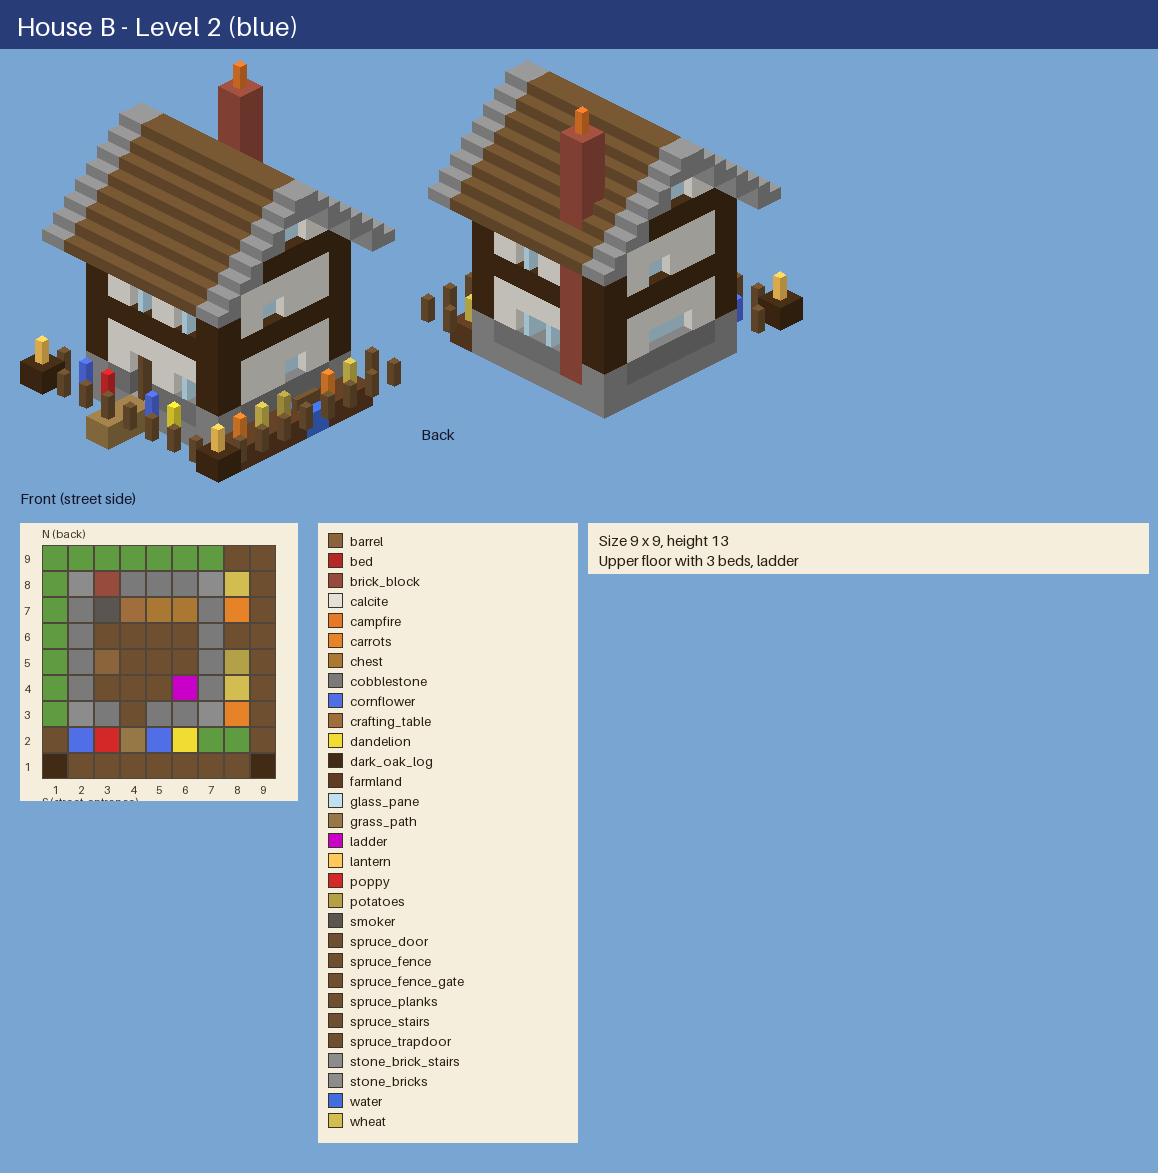
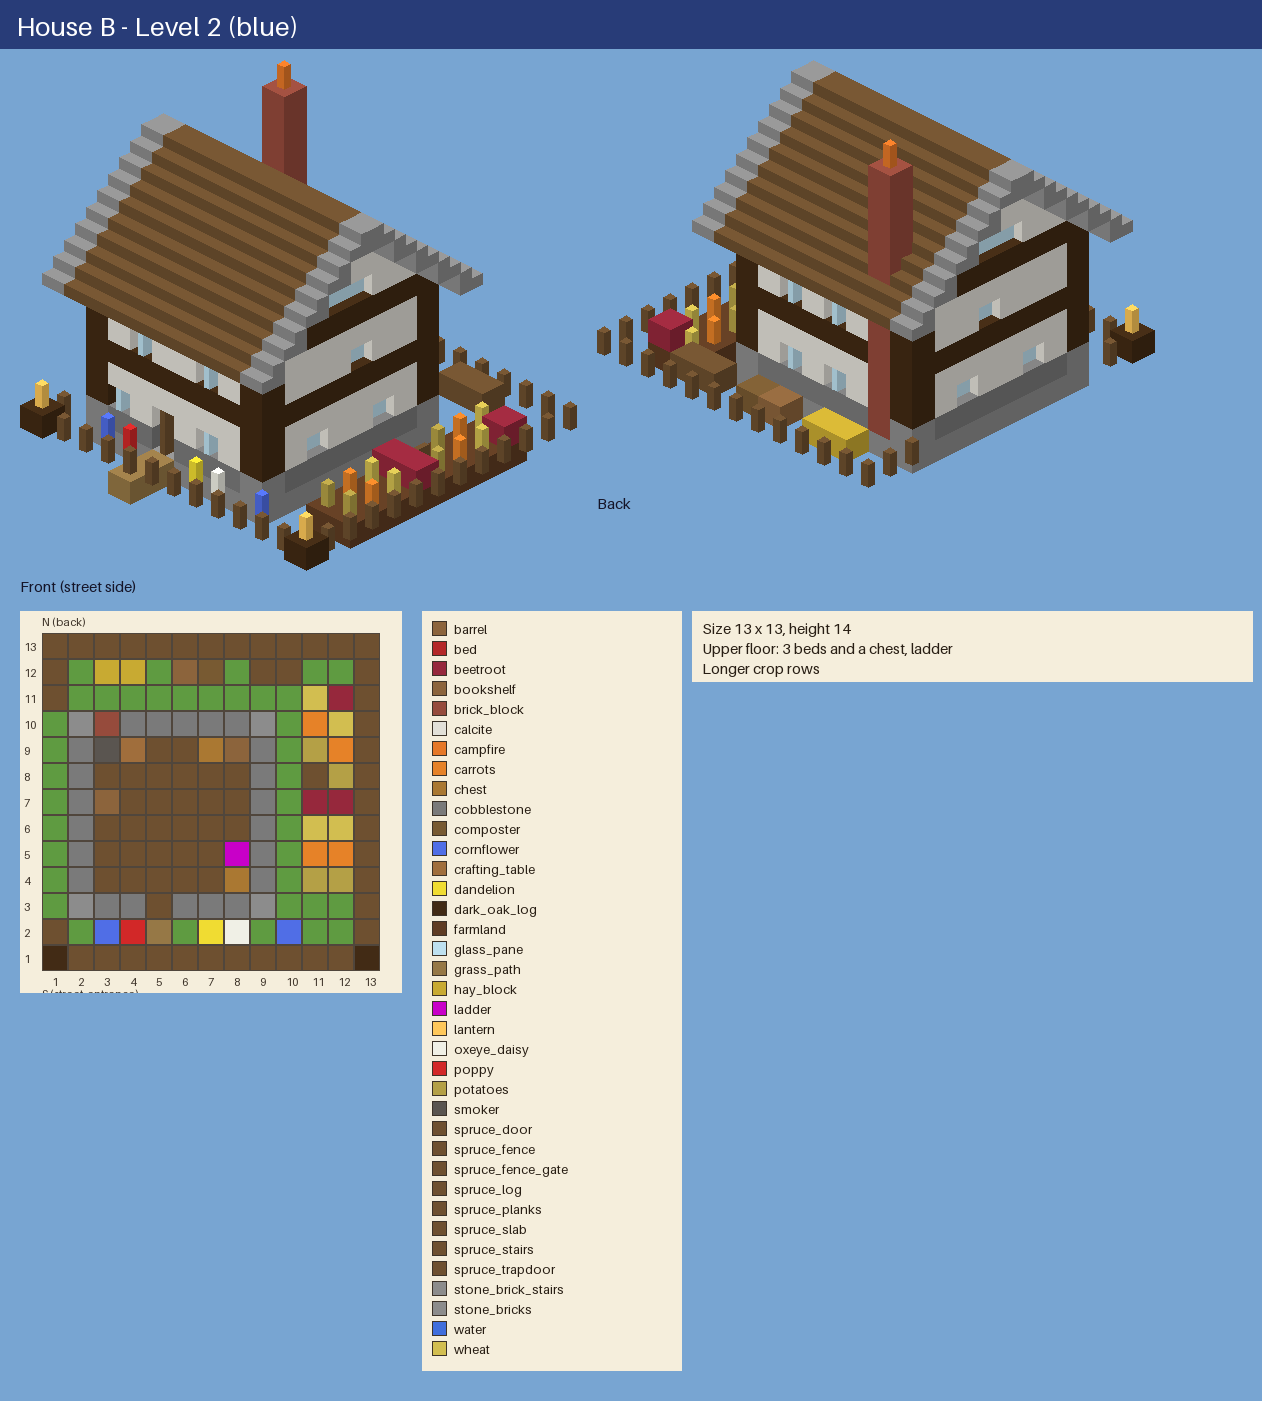
Kingscross houses v2 on M 13x13 plots; plot size read from the catalogue (QA fails on mismatch); runtime warning on mismatch
Claude-Session: https://claude.ai/code/session_01RzQ4R3gbnumKF4eqiBRizH

diff --git a/src/scripts/settlements/blueprint.ts b/src/scripts/settlements/blueprint.ts
@@ -96,6 +96,7 @@ function dataBlueprint(data: BlueprintData, rot: Rot): Blueprint {
 export function blueprintFor(def: BuildingDef, faction: string, variant: string | undefined, level: 1 | 2 | 3, w: number, rot: Rot): Blueprint {
   const data = variant ? BLUEPRINTS[key(faction, def.id, variant, level)] : undefined;
   if (data && data.size[0] === w && data.size[2] === w) return dataBlueprint(data, rot);
+  if (data) console.warn(`[BannerForge] design ${key(faction, def.id, variant!, level)} is ${data.size[0]}x${data.size[2]}, plot is ${w}x${w}: placeholder used`);
   return placeholderBlueprint(def, level, w, rot);
 }
 

diff --git a/assets-src/structures/kingscross/house.py b/assets-src/structures/kingscross/house.py
@@ -1,16 +1,18 @@
 """Kingscross Guild houses (brief: docs/structures/kingscross/house.md, style: docs/styles/kingscross.md v1).
 
+Lot: medium plot 13 x 13 (docs/BUILDINGS.md; owner confirmed 2026-11-15).
 Two designs (owner, 2026-11-15: 2 to start, house position differs, crops are real):
   A  house at the back of the lot, gable to the street, crop and flower garden in front
-  B  house in the front-left corner, roof ridge side to side, crop strip down the right side
-Levels: 1 cottage (2 beds) · 2 upper floor (3 beds) · 3 prestige details (4 beds): striped guild awning,
-flag, hedges, lanterns, yard clutter.
+  B  house in the front-left corner, roof ridge side to side, crop garden down the right side, back yard
+Levels: 1 cottage (2 beds) · 2 upper floor (3 beds) · 3 prestige details (4 beds): striped guild awning or
+porch, guild flag, hedges, lanterns, yard clutter.
 """
 from bfstruct import B, Blueprint, bed_pair, facing, lantern
 from kingscross import kit
 from kingscross.palette import ROLES
 
-W = 9
+W = 13
+H = 16
 
 
 def beds(bp, xs, y, head_z, foot_z):
@@ -27,69 +29,99 @@ def ladder(bp, x, z, y_top, toward):
         bp.set(x, y, z, B("ladder", facing_direction=f))
 
 
+def barrel(bp, x, y, z):
+    bp.set(x, y, z, B("barrel", facing_direction=1, open_bit=False))
+
+
+def hedge(bp, x, z):
+    bp.set(x, 1, z, B("oak_leaves", persistent_bit=True, update_bit=False))
+
+
+def flowers(bp, spots):
+    for (x, z, f) in spots:
+        bp.set(x, 1, z, B(f))
+
+
+def table(bp, x, z):
+    bp.set(x, 1, z, B("spruce_fence"))
+    bp.set(x, 2, z, B("spruce_slab", **{"minecraft:vertical_half": "bottom"}))
+
+
 # ------------------------------------------------------------------ design A
 
 
 def house_a(level: int) -> Blueprint:
-    bp = Blueprint(W, 14, W, name="kingscross/house/a", level=level)
-    x0, z0, x1, z1 = 1, 1, 7, 5
-    posts = set()  # corners only: the front shows plaster between the windows and the door
+    bp = Blueprint(W, H, W, name="kingscross/house/a", level=level)
+    x0, z0, x1, z1 = 2, 1, 10, 7  # 9 x 7 house at the back
+    posts = {(5, 7), (7, 7)}      # door frame; plaster stays visible at x 4 and 8
+    win1 = {(3, 7), (9, 7), (2, 3), (2, 5), (10, 3), (10, 5), (4, 1), (8, 1)}
     kit.base(bp, x0, z0, x1, z1)
     kit.lower_wall(bp, x0, z0, x1, z1, 1, posts)
-    kit.timber_walls(bp, x0, z0, x1, z1, 2, 3, posts, {(2, 5), (6, 5), (1, 3), (7, 3), (4, 1)})
-    kit.door(bp, 4, 1, 5)
+    kit.timber_walls(bp, x0, z0, x1, z1, 2, 3, posts, win1)
+    kit.door(bp, 6, 1, 7)
     kit.beam_ring(bp, x0, z0, x1, z1, 4)
+
+    # Ground floor: kitchen corner by the chimney, storage, a table.
+    bp.set(9, 1, 2, facing("smoker", "south"))
+    bp.set(8, 1, 2, B("crafting_table"))
+    bp.set(8, 2, 2, lantern())
+    bp.set(7, 1, 2, facing("chest", "south"))
+    barrel(bp, 9, 1, 3)
+    bp.set(9, 2, 3, lantern())
+    table(bp, 5, 4)
 
     if level == 1:
         kit.gable_roof(bp, x0, z0, x1, z1, 4, ridge="z")
-        kit.chimney(bp, 6, 1, 8)
-        beds(bp, (2, 3), 1, head_z=2, foot_z=3)
-        bp.set(4, 1, 2, facing("chest", "south"))
-        bp.set(5, 1, 2, B("crafting_table"))
-        bp.set(5, 2, 2, lantern())
-        bp.set(6, 1, 2, facing("smoker", "south"))
-        bp.set(6, 1, 3, B("barrel", facing_direction=1, open_bit=False))
-        bp.set(6, 2, 3, lantern())
+        kit.chimney(bp, 9, 1, 10)
+        beds(bp, (3, 4), 1, head_z=2, foot_z=3)
+        bp.set(3, 1, 5, B("bookshelf"))
+        bp.set(3, 2, 5, lantern())
     else:
-        bp.fill(2, 4, 2, 6, 4, 4, ROLES["floor"])
-        bp.set(6, 4, 4, None)  # ladder hole
-        kit.timber_walls(bp, x0, z0, x1, z1, 5, 6, {(4, 5), (4, 1)}, {(2, 5), (6, 5), (1, 3), (7, 3), (3, 1), (5, 1)})
+        bp.fill(3, 4, 2, 9, 4, 6, ROLES["floor"])
+        bp.set(9, 4, 6, None)  # ladder hole
+        kit.timber_walls(bp, x0, z0, x1, z1, 5, 6, {(6, 7), (6, 1)}, {(3, 7), (4, 7), (8, 7), (9, 7), (2, 4), (10, 4), (4, 1), (8, 1)})
         kit.beam_ring(bp, x0, z0, x1, z1, 7)
         kit.gable_roof(bp, x0, z0, x1, z1, 7, ridge="z")
-        kit.chimney(bp, 6, 1, 11)
-        ladder(bp, 6, 4, 4, "west")
-        beds(bp, (2, 3, 5) if level == 2 else (2, 3, 4, 5), 5, head_z=2, foot_z=3)
-        bp.set(6, 5, 2, lantern())
-        bp.set(2, 1, 2, B("barrel", facing_direction=1, open_bit=False))
+        kit.chimney(bp, 9, 1, 13)
+        ladder(bp, 9, 6, 4, "west")
+        beds(bp, (3, 4, 6) if level == 2 else (3, 4, 6, 7), 5, head_z=2, foot_z=3)
+        bp.set(8, 5, 2, facing("chest", "south"))
+        bp.set(3, 5, 6, lantern())
+        bp.set(7, 5, 6, lantern())
         bp.set(3, 1, 2, facing("chest", "south"))
-        bp.set(4, 1, 2, facing("chest", "south"))
-        bp.set(5, 1, 2, B("crafting_table"))
-        bp.set(5, 2, 2, lantern())
-        bp.set(6, 1, 2, facing("smoker", "south"))
-        bp.set(3, 3, 3, lantern(hanging=True))
+        barrel(bp, 4, 1, 2)
+        bp.set(3, 1, 6, B("bookshelf"))
+        bp.set(3, 2, 6, lantern())
+        bp.set(6, 3, 4, lantern(hanging=True))
 
-    # Yard: path, fence with gate, lantern posts, real crops, flowers.
-    for z in (6, 7, 8):
-        bp.set(4, 0, z, ROLES["path"])
-    kit.fence_line(bp, [(x, 8) for x in range(1, 8) if x != 4] + [(0, 6), (0, 7), (8, 6), (8, 7)], gate=(4, 8))
-    kit.lantern_post(bp, 8, 8)
-    kit.crops(bp, [(5, 7), (6, 7), (7, 7)] + ([(5, 6), (6, 6)] if level >= 2 else []), water=(7, 6))
-    for (x, z, f) in [(1, 7, "cornflower"), (2, 7, "poppy"), (1, 6, "dandelion")] + ([(3, 7, "cornflower"), (2, 6, "oxeye_daisy")] if level >= 2 else []):
-        bp.set(x, 1, z, B(f))
+    # Front yard: path, fence with gate, lantern posts, real crops, flowers.
+    for z in range(8, 13):
+        bp.set(6, 0, z, ROLES["path"])
+    kit.fence_line(bp, [(x, 12) for x in range(1, 12) if x != 6] + [(0, z) for z in range(8, 12)] + [(12, z) for z in range(8, 12)], gate=(6, 12))
+    kit.lantern_post(bp, 12, 12)
+    cells = [(x, z) for x in (8, 9, 10, 11) for z in (9, 10, 11) if (x, z) != (9, 10)]
+    if level == 1:
+        cells = [c for c in cells if c[1] != 9]
+    kit.crops(bp, cells, water=(9, 10))
+    flowers(bp, [(2, 9, "cornflower"), (3, 9, "poppy"), (2, 10, "dandelion"), (4, 10, "cornflower")]
+            + ([(3, 11, "oxeye_daisy"), (4, 9, "poppy")] if level >= 2 else []))
+    bp.set(1, 1, 9, B("hay_block", pillar_axis="y"))
+    barrel(bp, 1, 1, 10)
     if level >= 3:
-        kit.awning(bp, 3, 5, 3, 6)
-        bp.set(3, 1, 6, lantern())
-        bp.set(5, 1, 6, B("hay_block", pillar_axis="y"))
-        for (x, z) in [(0, 6), (0, 7), (8, 6), (8, 7)]:
-            bp.set(x, 1, z, B("oak_leaves", persistent_bit=True, update_bit=False))
-        kit.flag_pole(bp, 0, 8, 5, dx=1)
+        kit.awning(bp, 5, 7, 3, 8)
+        bp.set(5, 1, 8, lantern())
+        bp.set(7, 1, 8, lantern())
+        for z in range(8, 12):
+            hedge(bp, 0, z)
+            hedge(bp, 12, z)
+        kit.flag_pole(bp, 0, 12, 6, dx=1)
     else:
-        kit.lantern_post(bp, 0, 8)
+        kit.lantern_post(bp, 0, 12)
 
     bp.notes = {
-        1: ["Design A: house at the back, gable to the street", "2 beds, chest, barrel, crafting table, smoker", "Real crops (wheat, carrots, potatoes), flowers, gate"],
-        2: ["Upper floor with 3 beds, ladder", "Bigger garden"],
-        3: ["4 beds; blue-and-white guild awning over the door", "Guild flag at the gate, hedges, hay bale, lantern"],
+        1: ["Design A: house at the back, gable to the street", "2 beds, table, chest, barrel, bookshelf, smoker", "Front garden: real crops, flowers, hay, gate"],
+        2: ["Upper floor: 3 beds and a chest, ladder", "Bigger crop patch"],
+        3: ["4 beds; blue-and-white guild awning, door lanterns", "Guild flag at the gate, hedges along the yard"],
     }[level]
     return bp
 
@@ -98,70 +130,79 @@ def house_a(level: int) -> Blueprint:
 
 
 def house_b(level: int) -> Blueprint:
-    bp = Blueprint(W, 14, W, name="kingscross/house/b", level=level)
-    x0, z0, x1, z1 = 1, 1, 6, 6
-    posts = set()
+    bp = Blueprint(W, H, W, name="kingscross/house/b", level=level)
+    x0, z0, x1, z1 = 1, 3, 8, 10  # 8 x 8 house in the front-left corner
+    win1 = {(2, 10), (6, 10), (1, 5), (1, 8), (8, 5), (8, 8), (4, 3), (6, 3)}
     kit.base(bp, x0, z0, x1, z1)
-    kit.lower_wall(bp, x0, z0, x1, z1, 1, posts)
-    kit.timber_walls(bp, x0, z0, x1, z1, 2, 3, posts, {(5, 6), (1, 3), (1, 4), (6, 3), (3, 1), (4, 1)})
-    kit.door(bp, 3, 1, 6)
+    kit.lower_wall(bp, x0, z0, x1, z1, 1)
+    kit.timber_walls(bp, x0, z0, x1, z1, 2, 3, set(), win1)
+    kit.door(bp, 4, 1, 10)
     kit.beam_ring(bp, x0, z0, x1, z1, 4)
+
+    bp.set(2, 1, 4, facing("smoker", "south"))
+    bp.set(3, 1, 4, B("crafting_table"))
+    bp.set(3, 2, 4, lantern())
+    barrel(bp, 2, 1, 6)
+    bp.set(2, 2, 6, lantern())
+    bp.set(7, 1, 9, facing("chest", "west"))
+    table(bp, 5, 7)
 
     if level == 1:
         kit.gable_roof(bp, x0, z0, x1, z1, 4, ridge="x")
-        kit.chimney(bp, 2, 1, 8)
-        beds(bp, (4, 5), 1, head_z=2, foot_z=3)
-        bp.set(2, 1, 2, facing("smoker", "south"))
-        bp.set(3, 1, 2, B("crafting_table"))
-        bp.set(3, 2, 2, lantern())
-        bp.set(2, 1, 4, B("barrel", facing_direction=1, open_bit=False))
-        bp.set(2, 2, 4, lantern())
-        bp.set(5, 1, 5, facing("chest", "west"))
+        kit.chimney(bp, 2, 3, 9)
+        beds(bp, (6, 7), 1, head_z=4, foot_z=5)
+        bp.set(7, 1, 7, B("bookshelf"))
+        bp.set(7, 2, 7, lantern())
     else:
-        bp.fill(2, 4, 2, 5, 4, 5, ROLES["floor"])
-        bp.set(5, 4, 5, None)  # ladder hole
-        kit.timber_walls(bp, x0, z0, x1, z1, 5, 6, posts, {(3, 6), (5, 6), (1, 3), (6, 4), (4, 1)})
+        bp.fill(2, 4, 4, 7, 4, 9, ROLES["floor"])
+        bp.set(7, 4, 8, None)  # ladder hole
+        kit.timber_walls(bp, x0, z0, x1, z1, 5, 6, set(), {(3, 10), (6, 10), (1, 6), (8, 6), (4, 3), (6, 3)})
         kit.beam_ring(bp, x0, z0, x1, z1, 7)
         kit.gable_roof(bp, x0, z0, x1, z1, 7, ridge="x")
-        kit.chimney(bp, 2, 1, 11)
-        ladder(bp, 5, 5, 4, "west")
-        beds(bp, (2, 3, 4) if level == 2 else (2, 3, 4, 5), 5, head_z=2, foot_z=3)
-        bp.set(2, 5, 5, lantern())
-        bp.set(2, 1, 2, facing("smoker", "south"))
-        bp.set(3, 1, 2, B("crafting_table"))
-        bp.set(3, 2, 2, lantern())
-        bp.set(4, 1, 2, facing("chest", "south"))
-        bp.set(5, 1, 2, facing("chest", "south"))
-        bp.set(2, 1, 4, B("barrel", facing_direction=1, open_bit=False))
-        bp.set(2, 2, 4, lantern())
-        bp.set(4, 3, 4, lantern(hanging=True))
+        kit.chimney(bp, 2, 3, 12)
+        ladder(bp, 7, 8, 4, "west")
+        beds(bp, (3, 4, 5) if level == 2 else (3, 4, 5, 6), 5, head_z=4, foot_z=5)
+        bp.set(2, 5, 9, facing("chest", "east"))
+        bp.set(2, 5, 7, lantern())
+        bp.set(6, 5, 9, lantern())
+        bp.set(6, 1, 4, facing("chest", "south"))
+        bp.set(7, 1, 4, B("bookshelf"))
+        bp.set(7, 2, 4, lantern())
+        bp.set(4, 3, 7, lantern(hanging=True))
 
-    # Yard: front strip with path and flowers, crop strip down the right side.
-    for z in (7, 8):
-        bp.set(3, 0, z, ROLES["path"])
-    side = [(8, z) for z in range(0, 8)] + [(7, 0)]
-    kit.fence_line(bp, [(x, 8) for x in range(1, 8) if x != 3] + [(0, 7)] + side, gate=(3, 8))
-    kit.lantern_post(bp, 8, 8)
-    kit.crops(bp, [(7, 1), (7, 2), (7, 4), (7, 5), (7, 6)], water=(7, 3))
-    for (x, z, f) in [(1, 7, "cornflower"), (2, 7, "poppy"), (5, 7, "dandelion")] + ([(4, 7, "cornflower")] if level >= 2 else []):
-        bp.set(x, 1, z, B(f))
+    # Front strip with path, crop garden down the right side, back yard with hay and barrels.
+    for z in (11, 12):
+        bp.set(4, 0, z, ROLES["path"])
+    fence = [(x, 12) for x in range(1, 12) if x != 4] + [(12, z) for z in range(0, 12)] + [(x, 0) for x in range(0, 12)] + [(0, 1), (0, 2), (0, 11)]
+    kit.fence_line(bp, fence, gate=(4, 12))
+    kit.lantern_post(bp, 12, 12)
+    cells = [(x, z) for x in (10, 11) for z in range(2, 10) if (x, z) != (10, 5)]
+    if level == 1:
+        cells = [c for c in cells if c[1] <= 8]
+    kit.crops(bp, cells, water=(10, 5), kinds=("wheat", "carrots", "potatoes", "beetroot"))
+    flowers(bp, [(2, 11, "cornflower"), (3, 11, "poppy"), (6, 11, "dandelion"), (9, 11, "cornflower")]
+            + ([(7, 11, "oxeye_daisy"), (9, 1, "poppy")] if level >= 2 else []))
+    bp.set(2, 1, 1, B("hay_block", pillar_axis="y"))
+    bp.set(3, 1, 1, B("hay_block", pillar_axis="y"))
+    barrel(bp, 5, 1, 1)
+    bp.set(6, 1, 1, B("composter"))
+    for x in (8, 9):  # woodpile
+        bp.set(x, 1, 1, B("spruce_log", pillar_axis="x"))
     if level >= 3:
-        for x in (2, 4):  # porch posts
-            bp.set(x, 1, 7, ROLES["fence"])
-            bp.set(x, 2, 7, ROLES["fence"])
-        kit.awning(bp, 2, 4, 3, 7)
-        bp.set(6, 1, 7, B("hay_block", pillar_axis="y"))
-        bp.set(5, 1, 7, B("barrel", facing_direction=1, open_bit=False))
-        for z in range(1, 7):
-            bp.set(8, 1, z, B("oak_leaves", persistent_bit=True, update_bit=False))
-        kit.flag_pole(bp, 0, 8, 5, dx=1)
+        for x in (3, 5):  # porch posts
+            bp.set(x, 1, 11, ROLES["fence"])
+            bp.set(x, 2, 11, ROLES["fence"])
+        kit.awning(bp, 3, 5, 3, 11)
+        for z in range(1, 12):
+            hedge(bp, 12, z)
+        kit.flag_pole(bp, 0, 12, 6, dx=1)
     else:
-        kit.lantern_post(bp, 0, 8)
+        kit.lantern_post(bp, 0, 12)
 
     bp.notes = {
-        1: ["Design B: house in the front-left corner, ridge side to side", "2 beds, chest, barrel, crafting table, smoker", "Crop strip down the right side (real crops)"],
-        2: ["Upper floor with 3 beds, ladder"],
-        3: ["4 beds; porch with blue-and-white awning", "Guild flag, hedge along the crops, hay and barrel"],
+        1: ["Design B: house in the front-left corner, ridge side to side", "2 beds, table, chest, barrel, bookshelf, smoker", "Crop garden on the right (real crops); back yard: hay, woodpile, composter"],
+        2: ["Upper floor: 3 beds and a chest, ladder", "Longer crop rows"],
+        3: ["4 beds; porch with blue-and-white awning", "Guild flag, hedge along the garden"],
     }[level]
     return bp
 

diff --git a/assets-src/structures/build_all.py b/assets-src/structures/build_all.py
@@ -3,6 +3,7 @@ Usage: python3 assets-src/structures/build_all.py        (from the repo root)
 Exit code 1 if any QA error. Add new buildings to BUILDINGS below.
 """
 import os
+import re
 import sys
 
 HERE = os.path.dirname(os.path.abspath(__file__))
@@ -18,10 +19,25 @@ ROOT = os.path.dirname(os.path.dirname(HERE))
 OUT_TS = os.path.join(ROOT, "src", "scripts", "settlements", "generated", "blueprints.ts")
 PREVIEWS = os.path.join(HERE, "previews")
 
-# faction, building id, variant, generator, plot width, height limit, palette, required contents per level
+# The plot width comes from the game's building catalogue, so a design can never silently miss its plot
+# (play-test 2026-11-15: 9x9 houses on 13x13 house plots fell back to placeholder boxes).
+PLOT_WIDTH = {"S": 9, "M": 13, "L": 17}
+CATALOGUE = os.path.join(ROOT, "src", "scripts", "settlements", "buildings.ts")
+
+
+def plot_width(building: str) -> int:
+    src = open(CATALOGUE).read()
+    m = re.search(r'id: "' + re.escape(building) + r'",[^}]*?plot: "(\w+)"', src)
+    if not m or m.group(1) not in PLOT_WIDTH:
+        raise SystemExit(f"ERROR building {building!r}: no S/M/L plot in {os.path.relpath(CATALOGUE, ROOT)}")
+    return PLOT_WIDTH[m.group(1)]
+
+
+# faction, building id, variant, generator, height limit, palette, required contents per level
+HOUSE_NEEDS = {1: {"bed": 2}, 2: {"bed": 3}, 3: {"bed": 4}}
 BUILDINGS = [
-    ("blue", "house", "a", ks_house.blueprints_a, 9, 14, KS_ALLOWED, {1: {"bed": 2}, 2: {"bed": 3}, 3: {"bed": 4}}),
-    ("blue", "house", "b", ks_house.blueprints_b, 9, 14, KS_ALLOWED, {1: {"bed": 2}, 2: {"bed": 3}, 3: {"bed": 4}}),
+    ("blue", "house", "a", ks_house.blueprints_a, 16, KS_ALLOWED, HOUSE_NEEDS),
+    ("blue", "house", "b", ks_house.blueprints_b, 16, KS_ALLOWED, HOUSE_NEEDS),
 ]
 
 
@@ -29,7 +45,8 @@ def main():
     os.makedirs(PREVIEWS, exist_ok=True)
     os.makedirs(os.path.dirname(OUT_TS), exist_ok=True)
     entries, variants, errors = {}, {}, []
-    for faction, building, variant, gen, plot_w, max_h, allowed, needs in BUILDINGS:
+    for faction, building, variant, gen, max_h, allowed, needs in BUILDINGS:
+        plot_w = plot_width(building)
         bps = gen()
         for bp in bps:
             e, w = qa.check(bp, plot_w, max_h, allowed, needs.get(bp.level, {}))

diff --git a/assets-src/structures/preview.py b/assets-src/structures/preview.py
@@ -17,7 +17,7 @@ COLORS = [  # first match wins
     ("stone", (130, 130, 130)), ("bricks", (150, 75, 60)),
     ("blue_wool", (50, 70, 170)), ("blue_carpet", (50, 70, 170)), ("blue", (55, 80, 180)), ("white", (230, 230, 230)),
     ("grass_path", (150, 120, 70)), ("dirt_path", (150, 120, 70)), ("farmland", (95, 60, 35)), ("dirt", (120, 85, 55)),
-    ("grass_block", (95, 155, 65)), ("hay", (200, 170, 50)), ("wheat", (210, 190, 80)), ("carrots", (230, 130, 40)), ("potatoes", (180, 160, 70)),
+    ("grass_block", (95, 155, 65)), ("hay", (200, 170, 50)), ("wheat", (210, 190, 80)), ("carrots", (230, 130, 40)), ("beetroot", (150, 40, 60)), ("potatoes", (180, 160, 70)),
     ("leaves", (60, 120, 50)), ("azalea", (80, 140, 60)), ("cornflower", (80, 110, 230)), ("poppy", (210, 40, 40)), ("dandelion", (240, 220, 50)),
     ("oxeye", (240, 240, 230)), ("allium", (180, 100, 220)), ("flower_pot", (150, 80, 60)),
     ("lantern", (255, 200, 90)), ("torch", (255, 210, 100)), ("campfire", (230, 120, 40)),

diff --git a/docs/STRUCTURES.md b/docs/STRUCTURES.md
@@ -12,7 +12,7 @@ references and rules; the owner reviews (QA); the process must be repeatable and
    `assets-src/references/<faction>/` with a note on what each one is for. **References are never shipped and
    never copied block for block** (original assets only, CLAUDE.md rule 3).
 2. **Building brief** (once per building): `docs/structures/<faction>/<building>.md`, from
-   `docs/structures/_brief_template.md`. Lot size, what each level adds, entrance, required contents (beds,
+   `docs/structures/_brief_template.md`. Lot size (**from the building catalogue, `buildings.ts`**), what each level adds, entrance, required contents (beds,
    workstations), NPC spots, variants planned.
 3. **Generate**: `assets-src/structures/<faction>/<building>.py`, built from the shared toolkit
    (`bfstruct.py`) and the faction palette (`<faction>/palette.py`). One function per variant returns the
@@ -59,3 +59,4 @@ references and rules; the owner reviews (QA); the process must be repeatable and
 | --- | --- | --- |
 | 2026-11-15 | Pipeline v1 | Toolkit, QA, previews, generated module, in-game preview command, variants. Draft Kingscross house A as the pipeline test. |
 | 2026-11-15 | Kingscross house A + B v1 | Style guide v1 from web references; shared Kingscross kit (timber walls, gable roofs with stone verges, chimney, awning, flag, crops); lesson: on narrow fronts use corner posts only, or the plaster disappears. |
+| 2026-11-15 | Kingscross house A + B v2 | Houses are on M 13×13 plots (the 9×9 v1 silently fell back to placeholders). build_all.py now reads plot sizes from buildings.ts and fails on a mismatch; the game logs a warning instead of building a box quietly. |

diff --git a/docs/structures/kingscross/house.md b/docs/structures/kingscross/house.md
@@ -1,6 +1,6 @@
 # Kingscross Guild House — brief (v1, in review)
 
-- **Ledger building:** `house` · **Plot:** S 9×9 · **Height limit:** 14
+- **Ledger building:** `house` · **Plot:** M 13×13 (docs/BUILDINGS.md, confirmed by the owner 2026-11-15) · **Height limit:** 16
 - **Purpose:** homes for the settlement's NPCs. Housing 2 / 3 / 4 by level (docs/BUILDINGS.md), so 2 / 3 / 4 beds.
 - **Lot layout:** house plus yard: garden, flowers, path and fence (owner, 2026-11-15). The house may sit at the
   back, in a corner or to one side, depending on the variant.
@@ -11,9 +11,9 @@
 ## Levels (both designs)
 | Level | What it adds | Required contents | Height |
 | --- | --- | --- | --- |
-| 1 | Cottage: stone base, cobblestone lower wall, dark timber frame with light plaster, dark roof with stone trim, brick chimney | 2 beds, chest, barrel, crafting table, smoker, light | 10 |
-| 2 | Upper floor with ladder, bigger garden | 3 beds | 13 |
-| 3 | Blue-and-white awning (A) or porch with awning (B), guild flag, hedges, hay and barrels | 4 beds | 13 |
+| 1 | Cottage: stone base, cobblestone lower wall, dark timber frame with light plaster, dark roof with stone trim, brick chimney | 2 beds, chest, barrel, crafting table, smoker, light | 11–12 |
+| 2 | Upper floor with ladder, bigger garden | 3 beds | 14–15 |
+| 3 | Blue-and-white awning (A) or porch with awning (B), guild flag, hedges, hay and barrels | 4 beds | 14–15 |
 
 ## References
 `assets-src/references/kingscross/house_l1..3.jpg` (owner, concept art: direction, not a build plan):
